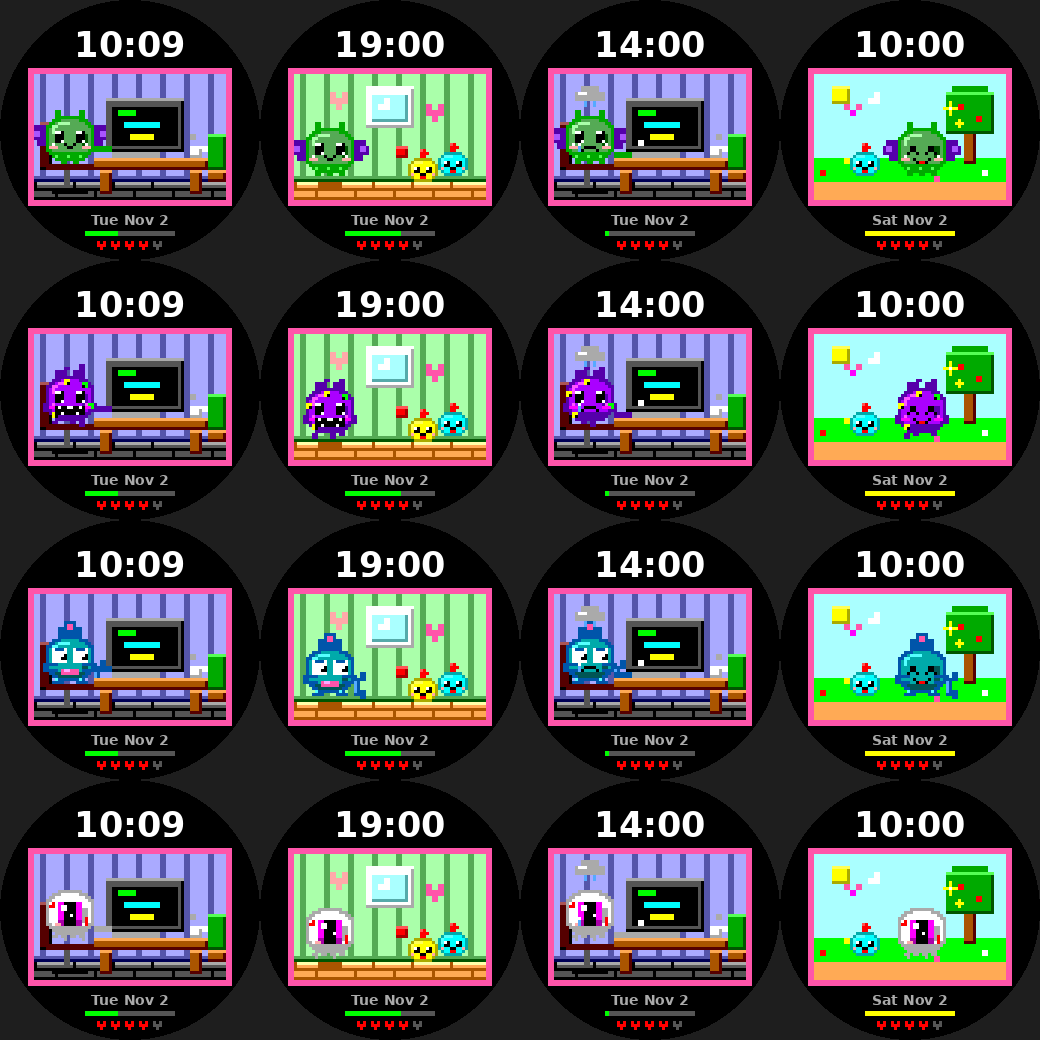
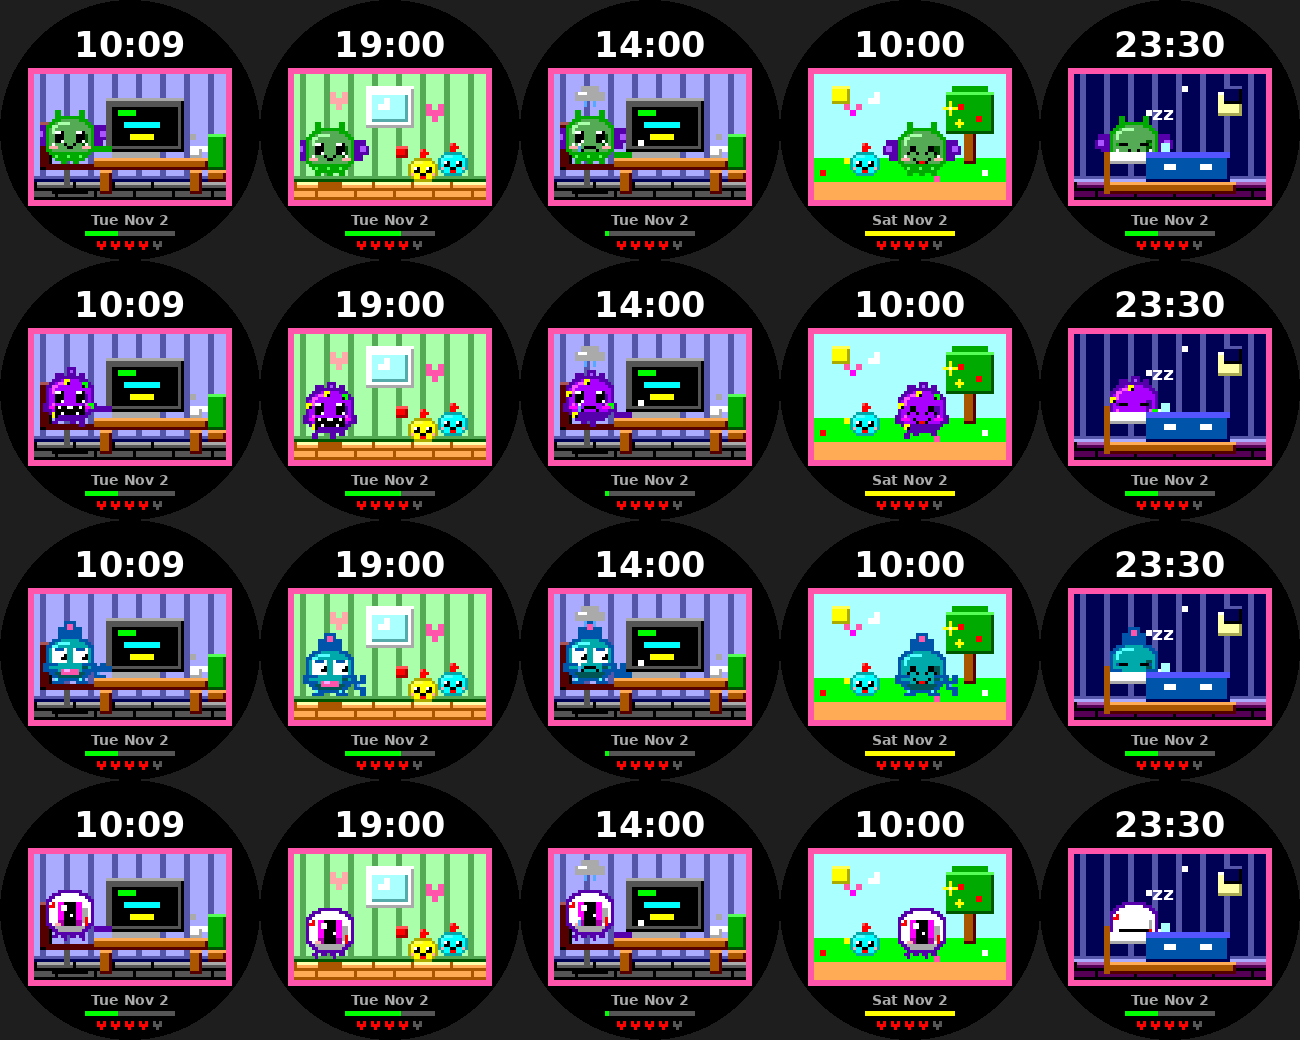
Eldritch polish: per-species sleeping heads, purple-outlined Great Eye, folding Cthulhu wings, tidier Deep One tail and Shoggoth lumps
Claude-Session: https://claude.ai/code/session_011ky8cAnUXaEurYwVogiPNe

diff --git a/desk-pet/src/c/main.c b/desk-pet/src/c/main.c
@@ -152,7 +152,7 @@ static void load_species(int id) {
       s_sp = (Species){GColorTiffanyBlue, GColorCobaltBlue, GColorShockingPink, GColorTiffanyBlue, EARS_DEEP};
       break;
     case 8:  // great eye: a floating eyeball on tentacles
-      s_sp = (Species){GColorWhite, GColorLightGray, GColorRed, GColorWhite, EARS_EYE};
+      s_sp = (Species){GColorWhite, GColorIndigo, GColorRed, GColorWhite, EARS_EYE};
       break;
   }
 }
@@ -168,16 +168,29 @@ static void px(int x, int y, GColor c) { box(c, x, y, 1, 1); }
 static const int8_t BODY_A[15] = {4, 2, 1, 0, 0, 0, 0, 0, 0, 0, 0, 0, 1, 2, 3};
 static const int8_t BODY_B[15] = {11, 13, 14, 15, 15, 15, 15, 15, 15, 15, 15, 15, 14, 13, 12};
 
+static bool s_sleeping;   // draw only the head, eyes shut (used by the bed scene)
+
+// Fill fine pixels, but never below row ymax (lets the bed hide the body).
+static void pf(GColor c, int x, int y, int w, int h, int ymax) {
+  if (y >= ymax) return;
+  if (y + h > ymax) h = ymax - y;
+  fbox(c, x, y, w, h);
+}
+
 static int imax(int a, int b) { return a > b ? a : b; }
 static int imin(int a, int b) { return a < b ? a : b; }
 
 // The grown-up pet: a 16x16 fine-pixel sprite (8x8 coarse) plus ears/extras.
 // mouth: 0 = closed, 1 = open (chewing / talking)
 static void pet(int x, int y, bool blink, int mouth) {
-  if (s_bob && (s_tick & 1)) y -= 1;               // little hop
-  if (s_sp.ears == EARS_EYE && (s_tick & 2)) y -= 1;   // the eye bobs in the air
+  const bool sl = s_sleeping;
+  const Mood md = sl ? MOOD_OK : s_mood;
+  if (sl) { blink = true; mouth = 0; }
+  if (!sl && s_bob && (s_tick & 1)) y -= 1;        // little hop
+  if (!sl && s_sp.ears == EARS_EYE && (s_tick & 2)) y -= 1;   // the eye bobs in the air
   const int X = x * 2, Y = y * 2;
-#define F(c, dx, dy, w, h) fbox((c), X + (dx), Y + (dy), (w), (h))
+  const int maxrow = sl ? 10 : 99;
+#define F(c, dx, dy, w, h) pf((c), X + (dx), Y + (dy), (w), (h), Y + maxrow)
   const EarStyle k = s_sp.ears;
   const GColor out = s_sp.out, body = s_sp.body;
   const GColor hl = shade(body, 1), sh = shade(body, -1);
@@ -185,7 +198,7 @@ static void pet(int x, int y, bool blink, int mouth) {
 
   // soft contact shadow on the floor
   int gap = FLOOR_FINE - (Y + 16);
-  if (s_floor_ok && gap >= 0 && gap <= 2) {
+  if (!sl && s_floor_ok && gap >= 0 && gap <= 2) {
     fbox(shade(s_floor_col, -1), X + 2 + gap, FLOOR_FINE, 12 - 2 * gap, 2);
   }
 
@@ -208,14 +221,24 @@ static void pet(int x, int y, bool blink, int mouth) {
       F(out, 2, -3, 5, 5);  F(out, 9, -3, 5, 5);
       break;
     case EARS_CTHULHU:
-      F(s_sp.snout, -4, 3 + t, 4, 2);  F(s_sp.snout, -5, 5 + t, 5, 3);  F(s_sp.snout, -3, 8 + t, 3, 2);
-      F(s_sp.snout, 16, 3 + t, 4, 2);  F(s_sp.snout, 16, 5 + t, 5, 3);  F(s_sp.snout, 16, 8 + t, 3, 2);
-      F(shade(s_sp.snout, 1), -4, 5 + t, 2, 2);  F(shade(s_sp.snout, 1), 18, 5 + t, 2, 2);
+      if (X >= 5) {                                  // spread, flapping bat wings
+        F(s_sp.snout, -4, 3 + t, 4, 2);  F(s_sp.snout, -5, 5 + t, 5, 3);  F(s_sp.snout, -3, 8 + t, 3, 2);
+        F(shade(s_sp.snout, 1), -4, 5 + t, 2, 2);
+      } else {                                       // folded against the wall
+        F(s_sp.snout, -2, 3 + t, 2, 7);  F(shade(s_sp.snout, 1), -2, 5 + t, 1, 2);
+      }
+      if (X + 21 <= FINE_W) {
+        F(s_sp.snout, 16, 3 + t, 4, 2);  F(s_sp.snout, 16, 5 + t, 5, 3);  F(s_sp.snout, 16, 8 + t, 3, 2);
+        F(shade(s_sp.snout, 1), 18, 5 + t, 2, 2);
+      } else {
+        F(s_sp.snout, 16, 3 + t, 2, 7);  F(shade(s_sp.snout, 1), 17, 5 + t, 1, 2);
+      }
       F(out, 3, -2, 2, 3);  F(out, 11, -2, 2, 3);   // tiny horns
       break;
     case EARS_SHOGGOTH:
-      F(out, 3, -2, 4, 3);  F(out, 9, -2, 2, 3);
-      F(out, 11, -4 + t, 2, 5);  F(out, 6, -3, 2, 1);
+      F(out, 3, -1, 3, 2);
+      F(out, 7, -3 + t, 3, 4);  F(shade(out, 1), 8, -2 + t, 1, 1);
+      F(out, 11, -1, 2, 2);
       break;
     case EARS_DEEP:
       F(out, 4, -3, 2, 4);  F(out, 6, -5, 4, 6);  F(out, 10, -3, 2, 4);
@@ -255,7 +278,7 @@ static void pet(int x, int y, bool blink, int mouth) {
     }
   }
   // little arms
-  if (k != EARS_EYE && k != EARS_CTHULHU) {
+  if (!sl && k != EARS_EYE && k != EARS_CTHULHU) {
     F(out, -1, 9, 1, 3);  F(out, 16, 9, 1, 3);
   }
 
@@ -279,7 +302,7 @@ static void pet(int x, int y, bool blink, int mouth) {
     if (((int)s_tick + 3) % 4 != 0) { F(GColorGreen, 14, 9, 2, 2);  F(GColorBlack, 14, 10, 1, 1); }
     if (((int)s_tick + 1) % 5 != 0) { F(GColorYellow, 2, 12, 2, 2);  F(GColorBlack, 3, 13, 1, 1); }
   } else if (k == EARS_DEEP) {
-    F(out, 16, 10, 2, 6);  F(out, 18, 8, 2, 3);  F(out, 18, 14, 2, 3);  F(shade(out, 1), 16, 11, 1, 4);
+    F(out, 16, 11, 2, 3);  F(out, 18, 9, 2, 3);  F(out, 18, 13, 2, 3);  F(shade(out, 1), 17, 12, 1, 1);
     F(out, 1, 9, 3, 1);  F(out, 1, 11, 3, 1);  F(out, 12, 9, 3, 1);  F(out, 12, 11, 3, 1);   // gills
   }
 
@@ -306,7 +329,7 @@ static void pet(int x, int y, bool blink, int mouth) {
       F(GColorBlack, 4, -1, 2, 3);  F(GColorBlack, 11, -1, 2, 3);
       F(GColorWhite, 4, -1, 1, 1);  F(GColorWhite, 11, -1, 1, 1);
     }
-  } else if (k == EARS_DEEP && !blink && s_mood != MOOD_HAPPY) {
+  } else if (k == EARS_DEEP && !blink && md != MOOD_HAPPY) {
     // big bulging fish eyes looking to the side
     F(GColorWhite, 2, 4, 5, 5);  F(GColorWhite, 9, 4, 5, 5);
     F(out, 3, 4, 3, 1);  F(out, 10, 4, 3, 1);
@@ -315,7 +338,7 @@ static void pet(int x, int y, bool blink, int mouth) {
   } else if (blink) {
     F(GColorBlack, 3, 7, 3, 1);  F(GColorBlack, 10, 7, 3, 1);
     F(out, 2, 7, 1, 1);  F(out, 13, 7, 1, 1);
-  } else if (s_mood == MOOD_HAPPY) {
+  } else if (md == MOOD_HAPPY) {
     F(GColorBlack, 3, 8, 1, 1);  F(GColorBlack, 4, 6, 2, 2);  F(GColorBlack, 6, 8, 1, 1);   // ^ ^
     F(GColorBlack, 9, 8, 1, 1);  F(GColorBlack, 10, 6, 2, 2);  F(GColorBlack, 12, 8, 1, 1);
   } else {
@@ -337,9 +360,9 @@ static void pet(int x, int y, bool blink, int mouth) {
     // an eyeball has no mouth
   } else if (mouth) {
     F(GColorRed, 6, 10, 4, 3);  F(GColorShockingPink, 7, 12, 2, 1);  F(GColorBlack, 6, 10, 4, 1);
-  } else if (s_mood == MOOD_SAD) {
+  } else if (md == MOOD_SAD) {
     F(GColorBlack, 6, 10, 4, 1);  F(GColorBlack, 5, 11, 1, 1);  F(GColorBlack, 10, 11, 1, 1);
-  } else if (s_mood == MOOD_HAPPY) {
+  } else if (md == MOOD_HAPPY) {
     F(GColorBlack, 5, 10, 1, 1);  F(GColorBlack, 10, 10, 1, 1);  F(GColorBlack, 6, 11, 4, 1);
     F(GColorRed, 7, 11, 2, 1);
   } else if (k == EARS_FROG) {
@@ -363,7 +386,7 @@ static void pet(int x, int y, bool blink, int mouth) {
     F(shade(out, 1), 3, 13, 1, 1);  F(shade(out, 1), 7, 13, 1, 1);  F(shade(out, 1), 11, 13, 1, 1);
   }
 
-  if (s_mood == MOOD_SAD) {
+  if (md == MOOD_SAD) {
     F(GColorPictonBlue, 4, 9, 1, 2 + t);                  // tear
     F(GColorWhite, 4, 9, 1, 1);
     // little rain cloud overhead
@@ -372,7 +395,7 @@ static void pet(int x, int y, bool blink, int mouth) {
     F(GColorWhite, 4, cy + 2, 3, 1);
     F(GColorPictonBlue, 5 + 4 * t, cy + 5, 1, 2);
     F(GColorPictonBlue, 10 - 4 * t, cy + 5, 1, 2);
-  } else if (s_mood == MOOD_HAPPY) {
+  } else if (md == MOOD_HAPPY) {
     // twinkling sparkles
     int sx = t ? 16 : -3;
     int sy = (k == EARS_BUNNY) ? -12 : -9;
@@ -463,21 +486,20 @@ static void scene_sleep(void) {
       box(GColorWhite, sx[i], sy[i], 1, 1);
     }
   }
-  // bed
+  // bed with the sleeping pet's head on the pillow
   box(GColorWindsorTan, 5, 18, 22, 2);
   box(GColorWindsorTan, 5, 12, 1, 8);
-  box(GColorWhite, 6, 12, 7, 3);                 // pillow
-  box(PET_OUT, 7, 11, 1, 1);                     // ears
-  box(PET_OUT, 11, 11, 1, 1);
-  box(PET_BODY, 7, 12, 5, 3);                    // head
-  box(GColorBlack, 8, 13, 1, 1);                 // closed eyes
-  box(GColorBlack, 10, 13, 1, 1);
-  box(GColorRed, 7, 14, 1, 1);                   // blush
-  box(GColorRed, 11, 14, 1, 1);
-  if (s_tick & 2) box(GColorCeleste, 12, 12, 2, 2);  // sleepy snot bubble
-  else box(GColorCeleste, 12, 12, 1, 1);
+  fbox(GColorWhite, 12, 25, 18, 5);
+  fbox(GColorLightGray, 12, 29, 18, 1);
+  s_sleeping = true;
+  pet(6, 8, true, 0);
+  s_sleeping = false;
+  if (s_tick & 2) fbox(GColorCeleste, 29, 23, 3, 3);   // sleepy snot bubble
+  else fbox(GColorCeleste, 29, 24, 2, 2);
   box(GColorCobaltBlue, 12, 13, 14, 5);          // blanket
   box(GColorBlueMoon, 12, 13, 14, 1);
+  box(GColorWhite, 15, 15, 2, 1);                // blanket stitching
+  box(GColorWhite, 21, 15, 2, 1);
   // floating z's
   static const char *zs[3] = {"z", "zz", "zzz"};
   txt(zs[(s_tick / 2) % 3], FONT_KEY_GOTHIC_24_BOLD, GColorWhite, 13, 4, 10, 8);

diff --git a/desk-pet/tools/preview/render.py b/desk-pet/tools/preview/render.py
@@ -65,9 +65,10 @@ NAMES = ["blob", "cat", "bunny", "bear", "frog", "cthulhu", "shoggoth", "deepone
 rows = []
 for sp, n in enumerate(NAMES):
     rows.append([frame(f"{n}_code", 10, 2, 9, 3000, 80, 2, sp), frame(f"{n}_play", 19, 2, 0, 5000, 80, 5, sp),
-                 frame(f"{n}_sad", 14, 2, 0, 400, 80, 3, sp), frame(f"{n}_happy", 10, 6, 0, 8500, 80, 1, sp)])
+                 frame(f"{n}_sad", 14, 2, 0, 400, 80, 3, sp), frame(f"{n}_happy", 10, 6, 0, 8500, 80, 1, sp),
+                 frame(f"{n}_sleep", 23, 2, 30, 3000, 80, 3, sp)])
 for fname, sel in (("pets.png", rows[:5]), ("eldritch.png", rows[5:])):
-    sheet2 = Image.new("RGB", (260 * 4, 260 * len(sel)))
+    sheet2 = Image.new("RGB", (260 * 5, 260 * len(sel)))
     for r_i, row in enumerate(sel):
         for c_i, im in enumerate(row):
             sheet2.paste(im, (c_i * 260, r_i * 260))

diff --git a/README.md b/README.md
@@ -39,7 +39,7 @@ Nine pets: blob (pink), cat (orange tabby with whiskers and a wagging tail), bun
 
 ![eldritch pets](desk-pet/docs/eldritch.png)
 
-Rows (eldritch): cthulhu, shoggoth, deep one, great eye.
+Columns: coding, play, sad at the desk, happy on a walk, asleep. Rows (eldritch): cthulhu, shoggoth, deep one, great eye.
 
 ### Status
 
